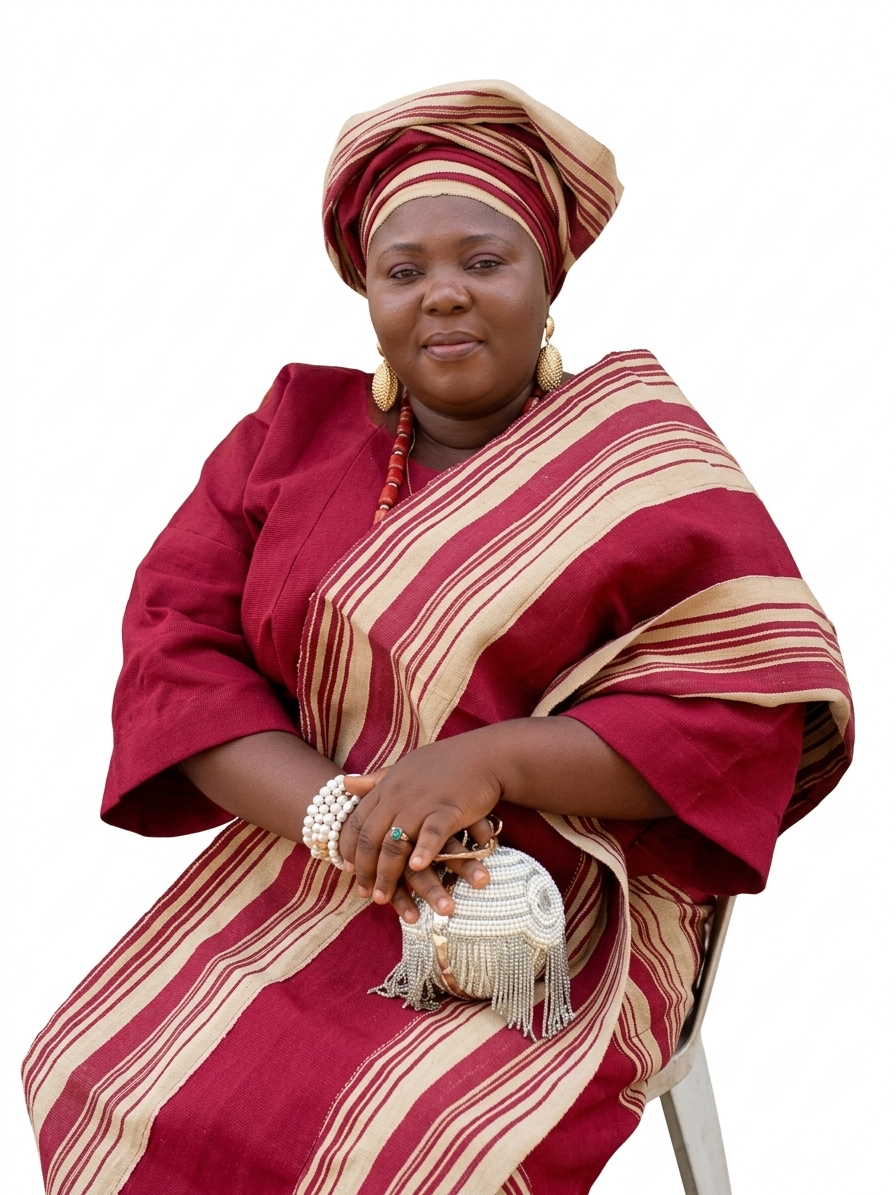
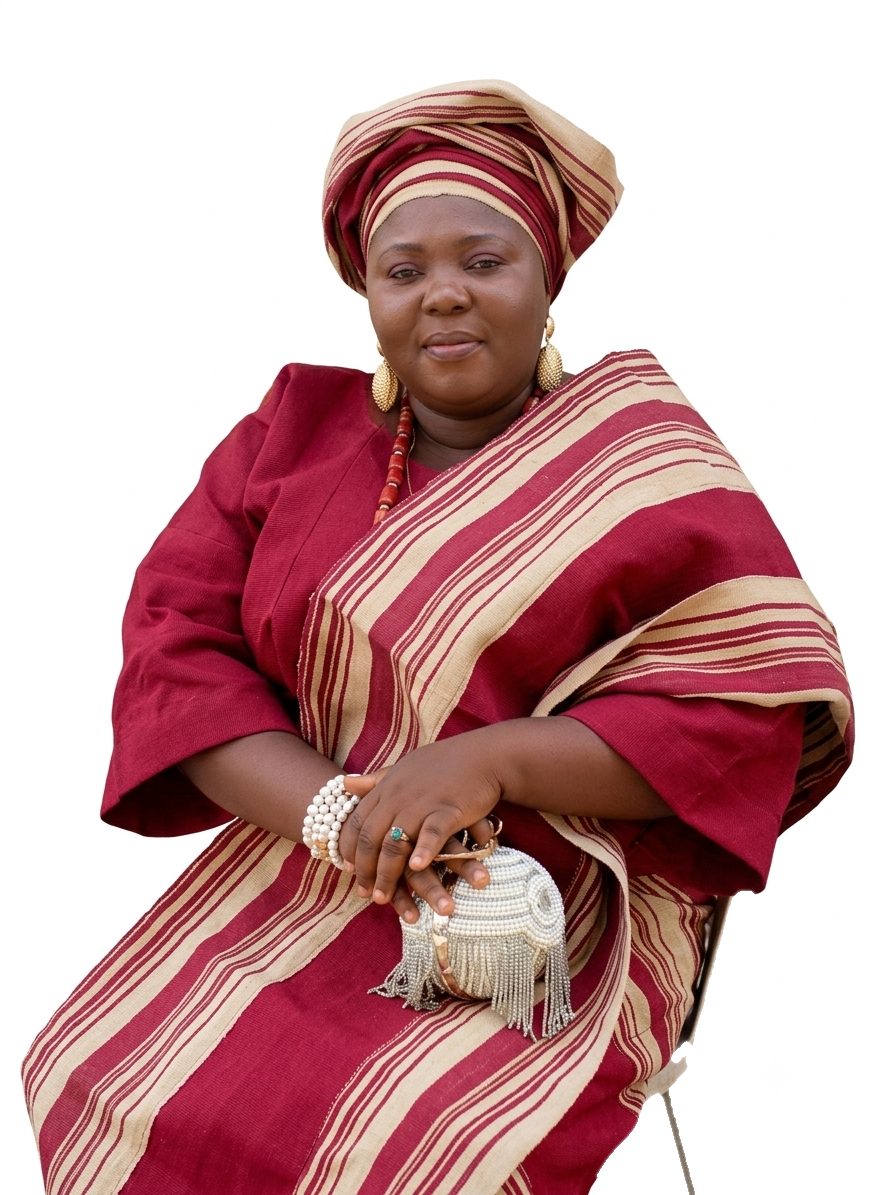
Add files via upload

Changed region(s): [[0.6875, 0.7741, 0.8438, 1.0], [0.8125, 0.7431, 0.8438, 0.7741], [0.6562, 0.9598, 0.6875, 0.9908]]

diff --git a/src/app/teacher/results/page.tsx b/src/app/teacher/results/page.tsx
@@ -2,6 +2,7 @@
 
 import { useEffect, useMemo, useState } from "react";
 
+type Option = { id: string; name: string };
 type Assignment = {
   id: string;
   class: { id: string; name: string };
@@ -32,9 +33,13 @@ function computeGradeClient(total: number): string {
 }
 
 export default function TeacherResultsPage() {
+  const [classes, setClasses] = useState<Option[]>([]);
+  const [subjects, setSubjects] = useState<Option[]>([]);
   const [assignments, setAssignments] = useState<Assignment[]>([]);
   const [terms, setTerms] = useState<Term[]>([]);
-  const [selectedAssignmentId, setSelectedAssignmentId] = useState("");
+
+  const [selectedClassId, setSelectedClassId] = useState("");
+  const [selectedSubjectId, setSelectedSubjectId] = useState("");
   const [selectedTermId, setSelectedTermId] = useState("");
 
   const [roster, setRoster] = useState<RosterEntry[]>([]);
@@ -53,35 +58,32 @@ export default function TeacherResultsPage() {
   useEffect(() => {
     async function loadOptions() {
       setLoadingOptions(true);
-      const [assignmentsRes, termsRes] = await Promise.all([
+      const [classesRes, subjectsRes, assignmentsRes, termsRes] = await Promise.all([
+        fetch("/api/teacher/classes"),
+        fetch("/api/teacher/subjects"),
         fetch("/api/teacher/assignments"),
         fetch("/api/teacher/terms"),
       ]);
-      const assignmentsData = await assignmentsRes.json();
-      const termsData = await termsRes.json();
-      setAssignments(assignmentsData.assignments || []);
-      setTerms(termsData.terms || []);
+      setClasses((await classesRes.json()).classes || []);
+      setSubjects((await subjectsRes.json()).subjects || []);
+      setAssignments((await assignmentsRes.json()).assignments || []);
+      setTerms((await termsRes.json()).terms || []);
       setLoadingOptions(false);
     }
     loadOptions();
   }, []);
 
-  const selectedAssignment = useMemo(
-    () => assignments.find((a) => a.id === selectedAssignmentId) || null,
-    [assignments, selectedAssignmentId]
-  );
-
   useEffect(() => {
     async function loadRoster() {
-      if (!selectedAssignment || !selectedTermId) {
+      if (!selectedClassId || !selectedSubjectId || !selectedTermId) {
         setRoster([]);
         return;
       }
       setLoadingRoster(true);
       setMessage(null);
       const params = new URLSearchParams({
-        classId: selectedAssignment.class.id,
-        subjectId: selectedAssignment.subject.id,
+        classId: selectedClassId,
+        subjectId: selectedSubjectId,
         termId: selectedTermId,
       });
       const res = await fetch(`/api/teacher/results?${params}`);
@@ -108,7 +110,7 @@ export default function TeacherResultsPage() {
     }
     loadRoster();
     // eslint-disable-next-line react-hooks/exhaustive-deps
-  }, [selectedAssignmentId, selectedTermId]);
+  }, [selectedClassId, selectedSubjectId, selectedTermId]);
 
   function updateScore(studentId: string, field: "testScore" | "examScore" | "remark", value: string) {
     setScores((prev) => ({
@@ -117,8 +119,13 @@ export default function TeacherResultsPage() {
     }));
   }
 
+  function applyShortcut(a: Assignment) {
+    setSelectedClassId(a.class.id);
+    setSelectedSubjectId(a.subject.id);
+  }
+
   async function handleSubmit() {
-    if (!selectedAssignment || !selectedTermId) return;
+    if (!selectedClassId || !selectedSubjectId || !selectedTermId) return;
     setMessage(null);
 
     const entries = roster
@@ -144,8 +151,8 @@ export default function TeacherResultsPage() {
       method: "POST",
       headers: { "Content-Type": "application/json" },
       body: JSON.stringify({
-        classId: selectedAssignment.class.id,
-        subjectId: selectedAssignment.subject.id,
+        classId: selectedClassId,
+        subjectId: selectedSubjectId,
         termId: selectedTermId,
         entries,
       }),
@@ -165,31 +172,62 @@ export default function TeacherResultsPage() {
       <h1 className="font-display text-3xl text-bistre font-semibold mb-1">
         Enter Results
       </h1>
-      <p className="text-vandyke mb-8">
-        Pick a class/subject and a term, then enter scores for the whole
+      <p className="text-vandyke mb-6">
+        Pick a class, subject, and term, then enter scores for the whole
         class at once.
       </p>
+
+      {assignments.length > 0 && (
+        <div className="mb-6">
+          <p className="text-xs text-vandyke uppercase tracking-wide font-mono mb-2">
+            Quick picks — your usual classes
+          </p>
+          <div className="flex flex-wrap gap-2">
+            {assignments.map((a) => (
+              <button
+                key={a.id}
+                onClick={() => applyShortcut(a)}
+                className="text-xs bg-taupe/20 hover:bg-taupe/30 text-vandyke rounded-full px-3 py-1.5 transition-colors"
+              >
+                {a.class.name} · {a.subject.name}
+              </button>
+            ))}
+          </div>
+        </div>
+      )}
 
       {loadingOptions ? (
         <p className="text-vandyke">Loading…</p>
       ) : (
-        <div className="flex gap-3 mb-6 max-w-2xl">
+        <div className="flex flex-wrap gap-3 mb-6 max-w-2xl">
           <select
-            value={selectedAssignmentId}
-            onChange={(e) => setSelectedAssignmentId(e.target.value)}
-            className="flex-1 border border-taupe/50 rounded-lg px-3 py-2 bg-white/60"
+            value={selectedClassId}
+            onChange={(e) => setSelectedClassId(e.target.value)}
+            className="flex-1 min-w-[160px] border border-taupe/50 rounded-lg px-3 py-2 bg-white/60"
           >
-            <option value="">Select class / subject…</option>
-            {assignments.map((a) => (
-              <option key={a.id} value={a.id}>
-                {a.class.name} · {a.subject.name}
+            <option value="">Select class…</option>
+            {classes.map((c) => (
+              <option key={c.id} value={c.id}>
+                {c.name}
+              </option>
+            ))}
+          </select>
+          <select
+            value={selectedSubjectId}
+            onChange={(e) => setSelectedSubjectId(e.target.value)}
+            className="flex-1 min-w-[160px] border border-taupe/50 rounded-lg px-3 py-2 bg-white/60"
+          >
+            <option value="">Select subject…</option>
+            {subjects.map((s) => (
+              <option key={s.id} value={s.id}>
+                {s.name}
               </option>
             ))}
           </select>
           <select
             value={selectedTermId}
             onChange={(e) => setSelectedTermId(e.target.value)}
-            className="flex-1 border border-taupe/50 rounded-lg px-3 py-2 bg-white/60"
+            className="flex-1 min-w-[160px] border border-taupe/50 rounded-lg px-3 py-2 bg-white/60"
           >
             <option value="">Select term…</option>
             {terms.map((t) => (
@@ -307,7 +345,7 @@ export default function TeacherResultsPage() {
             </button>
           )}
         </>
-      ) : selectedAssignmentId && selectedTermId ? (
+      ) : selectedClassId && selectedSubjectId && selectedTermId ? (
         <p className="text-vandyke">No students found in this class.</p>
       ) : null}
     </div>

diff --git a/src/app/api/admin/teachers/[id]/assignments/route.ts b/src/app/api/admin/teachers/[id]/assignments/route.ts
@@ -20,6 +20,36 @@ export async function POST(
     return NextResponse.json({ error: "Select a class and subject." }, { status: 400 });
   }
 
+  // Bulk mode: assign every subject that exists for this class in one go
+  if (parsed.data.subjectId === "ALL") {
+    const allSubjects: { id: string }[] = await db.subject.findMany({
+      select: { id: true },
+    });
+    const alreadyAssigned: { subjectId: string }[] = await db.teacherAssignment.findMany({
+      where: { teacherId: params.id, classId: parsed.data.classId },
+      select: { subjectId: true },
+    });
+    const assignedSet = new Set(alreadyAssigned.map((a) => a.subjectId));
+    const toCreate = allSubjects.filter((s) => !assignedSet.has(s.id));
+
+    if (toCreate.length === 0) {
+      return NextResponse.json(
+        { error: "Already assigned to every subject for this class." },
+        { status: 409 }
+      );
+    }
+
+    await db.teacherAssignment.createMany({
+      data: toCreate.map((s) => ({
+        teacherId: params.id,
+        classId: parsed.data.classId,
+        subjectId: s.id,
+      })),
+    });
+
+    return NextResponse.json({ created: toCreate.length }, { status: 201 });
+  }
+
   const existing = await db.teacherAssignment.findUnique({
     where: {
       teacherId_classId_subjectId: {

diff --git a/src/app/api/teacher/results/route.ts b/src/app/api/teacher/results/route.ts
@@ -8,18 +8,6 @@ async function getOwnTeacher(userId: string) {
   return db.teacher.findUnique({ where: { userId } });
 }
 
-async function verifyAssignment(
-  teacherId: string,
-  classId: string,
-  subjectId: string
-) {
-  return db.teacherAssignment.findUnique({
-    where: {
-      teacherId_classId_subjectId: { teacherId, classId, subjectId },
-    },
-  });
-}
-
 export async function GET(req: NextRequest) {
   const session = await requireRole("TEACHER");
   if (!session) return NextResponse.json({ error: "Forbidden." }, { status: 403 });
@@ -38,14 +26,6 @@ export async function GET(req: NextRequest) {
   const teacher = await getOwnTeacher(session.userId);
   if (!teacher) {
     return NextResponse.json({ error: "Teacher profile not found." }, { status: 404 });
-  }
-
-  const assignment = await verifyAssignment(teacher.id, classId, subjectId);
-  if (!assignment) {
-    return NextResponse.json(
-      { error: "You're not assigned to this class/subject." },
-      { status: 403 }
-    );
   }
 
   const term = await db.term.findUnique({ where: { id: termId } });
@@ -112,14 +92,6 @@ export async function POST(req: NextRequest) {
   const teacher = await getOwnTeacher(session.userId);
   if (!teacher) {
     return NextResponse.json({ error: "Teacher profile not found." }, { status: 404 });
-  }
-
-  const assignment = await verifyAssignment(teacher.id, classId, subjectId);
-  if (!assignment) {
-    return NextResponse.json(
-      { error: "You're not assigned to this class/subject." },
-      { status: 403 }
-    );
   }
 
   const term = await db.term.findUnique({ where: { id: termId } });

diff --git a/src/app/page.tsx b/src/app/page.tsx
@@ -229,11 +229,13 @@ export default function LandingPage() {
           </a>
         </div>
         <div className="order-1 md:order-2 flex justify-center">
-          <img
-            src="/headmistress.png"
-            alt="Oloyede Adetella Lateefat, Headmistress of Boltab Brilliant Schools"
-            className="w-64 md:w-72 h-auto rounded-card"
-          />
+          <div className="bg-white/40 border border-taupe/30 rounded-card p-6">
+            <img
+              src="/headmistress.png"
+              alt="Oloyede Adetella Lateefat, Headmistress of Boltab Brilliant Schools"
+              className="w-56 md:w-64 h-auto rounded-card"
+            />
+          </div>
         </div>
       </section>
 

diff --git a/src/app/api/teacher/classes/route.ts b/src/app/api/teacher/classes/route.ts
@@ -1,0 +1,11 @@
+import { NextResponse } from "next/server";
+import { db } from "@/lib/db";
+import { requireRole } from "@/lib/session";
+
+export async function GET() {
+  const session = await requireRole("TEACHER");
+  if (!session) return NextResponse.json({ error: "Forbidden." }, { status: 403 });
+
+  const classes = await db.class.findMany({ orderBy: { name: "asc" } });
+  return NextResponse.json({ classes });
+}

diff --git a/src/app/api/teacher/subjects/route.ts b/src/app/api/teacher/subjects/route.ts
@@ -1,0 +1,11 @@
+import { NextResponse } from "next/server";
+import { db } from "@/lib/db";
+import { requireRole } from "@/lib/session";
+
+export async function GET() {
+  const session = await requireRole("TEACHER");
+  if (!session) return NextResponse.json({ error: "Forbidden." }, { status: 403 });
+
+  const subjects = await db.subject.findMany({ orderBy: { name: "asc" } });
+  return NextResponse.json({ subjects });
+}

diff --git a/src/app/teacher/page.tsx b/src/app/teacher/page.tsx
@@ -26,13 +26,15 @@ export default async function TeacherOverview() {
         Welcome, {session?.name}
       </h1>
       <p className="text-vandyke mb-8">
-        Here's what you're assigned to teach this session.
+        Here are your quick-access shortcuts — you can enter results for
+        any class or subject, these are just the ones you use most.
       </p>
 
       {!teacher || teacher.assignments.length === 0 ? (
         <p className="text-vandyke">
-          You haven't been assigned to any class/subject yet — ask an admin
-          to set this up.
+          No quick-access shortcuts set up yet — that's fine, you can still
+          enter results for any class or subject from the Enter Results
+          page. Ask an admin to set up shortcuts here if you'd like them.
         </p>
       ) : (
         <div className="grid grid-cols-2 md:grid-cols-3 gap-4 mb-8">

diff --git a/src/app/admin/teachers/page.tsx b/src/app/admin/teachers/page.tsx
@@ -86,6 +86,9 @@ export default function TeachersPage() {
       alert(data.error);
       return;
     }
+    if (typeof data.created === "number") {
+      alert(`Assigned ${data.created} subject(s) for this class.`);
+    }
     setAssignForm((prev) => ({ ...prev, [teacherId]: { classId: "", subjectId: "" } }));
     load();
   }
@@ -210,6 +213,7 @@ export default function TeachersPage() {
                   className="border border-taupe/50 rounded-lg px-2 py-1.5 bg-white/60 text-sm"
                 >
                   <option value="">Subject…</option>
+                  <option value="ALL">— All subjects for this class —</option>
                   {subjects.map((s) => (
                     <option key={s.id} value={s.id}>
                       {s.name}